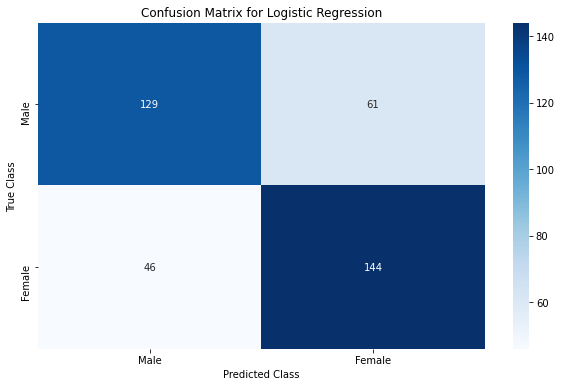
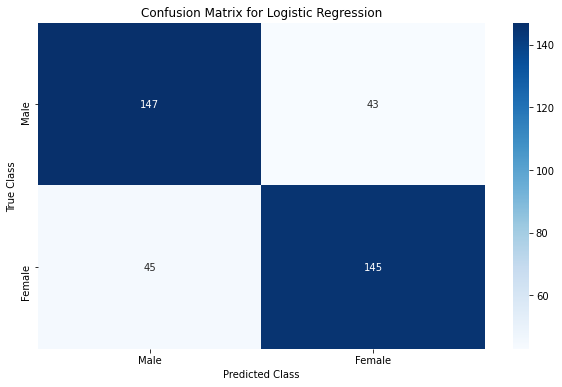
[PS] Imporoving results

diff --git a/_posts/2020-11-22-gender-classifier-based-on-movie-dialogues.md b/_posts/2020-11-22-gender-classifier-based-on-movie-dialogues.md
@@ -1672,46 +1672,49 @@ results("Naive Bayes" , nb_clf)
 results("Random Forest" , rf_clf)
 ```
 
-    SVC score: 0.721
+    SVC score: 0.787
                   precision    recall  f1-score   support
     
-               0       0.74      0.69      0.71       190
-               1       0.71      0.75      0.73       190
+               0       0.77      0.82      0.79       190
+               1       0.80      0.76      0.78       190
+    
+        accuracy                           0.79       380
+       macro avg       0.79      0.79      0.79       380
+    weighted avg       0.79      0.79      0.79       380
+    
+    Logistic Regression score: 0.768
+                  precision    recall  f1-score   support
+    
+               0       0.77      0.77      0.77       190
+               1       0.77      0.76      0.77       190
+    
+        accuracy                           0.77       380
+       macro avg       0.77      0.77      0.77       380
+    weighted avg       0.77      0.77      0.77       380
+    
+    Naive Bayes score: 0.761
+                  precision    recall  f1-score   support
+    
+               0       0.74      0.80      0.77       190
+               1       0.78      0.72      0.75       190
+    
+        accuracy                           0.76       380
+       macro avg       0.76      0.76      0.76       380
+    weighted avg       0.76      0.76      0.76       380
+    
+    Random Forest score: 0.721
+                  precision    recall  f1-score   support
+    
+               0       0.72      0.72      0.72       190
+               1       0.72      0.72      0.72       190
     
         accuracy                           0.72       380
        macro avg       0.72      0.72      0.72       380
     weighted avg       0.72      0.72      0.72       380
     
-    Logistic Regression score: 0.718
-                  precision    recall  f1-score   support
-    
-               0       0.74      0.68      0.71       190
-               1       0.70      0.76      0.73       190
-    
-        accuracy                           0.72       380
-       macro avg       0.72      0.72      0.72       380
-    weighted avg       0.72      0.72      0.72       380
-    
-    Naive Bayes score: 0.708
-                  precision    recall  f1-score   support
-    
-               0       0.70      0.73      0.71       190
-               1       0.72      0.68      0.70       190
-    
-        accuracy                           0.71       380
-       macro avg       0.71      0.71      0.71       380
-    weighted avg       0.71      0.71      0.71       380
-    
-    Random Forest score: 0.705
-                  precision    recall  f1-score   support
-    
-               0       0.71      0.69      0.70       190
-               1       0.70      0.72      0.71       190
-    
-        accuracy                           0.71       380
-       macro avg       0.71      0.71      0.71       380
-    weighted avg       0.71      0.71      0.71       380
-    
+
+
+
 
 
 
